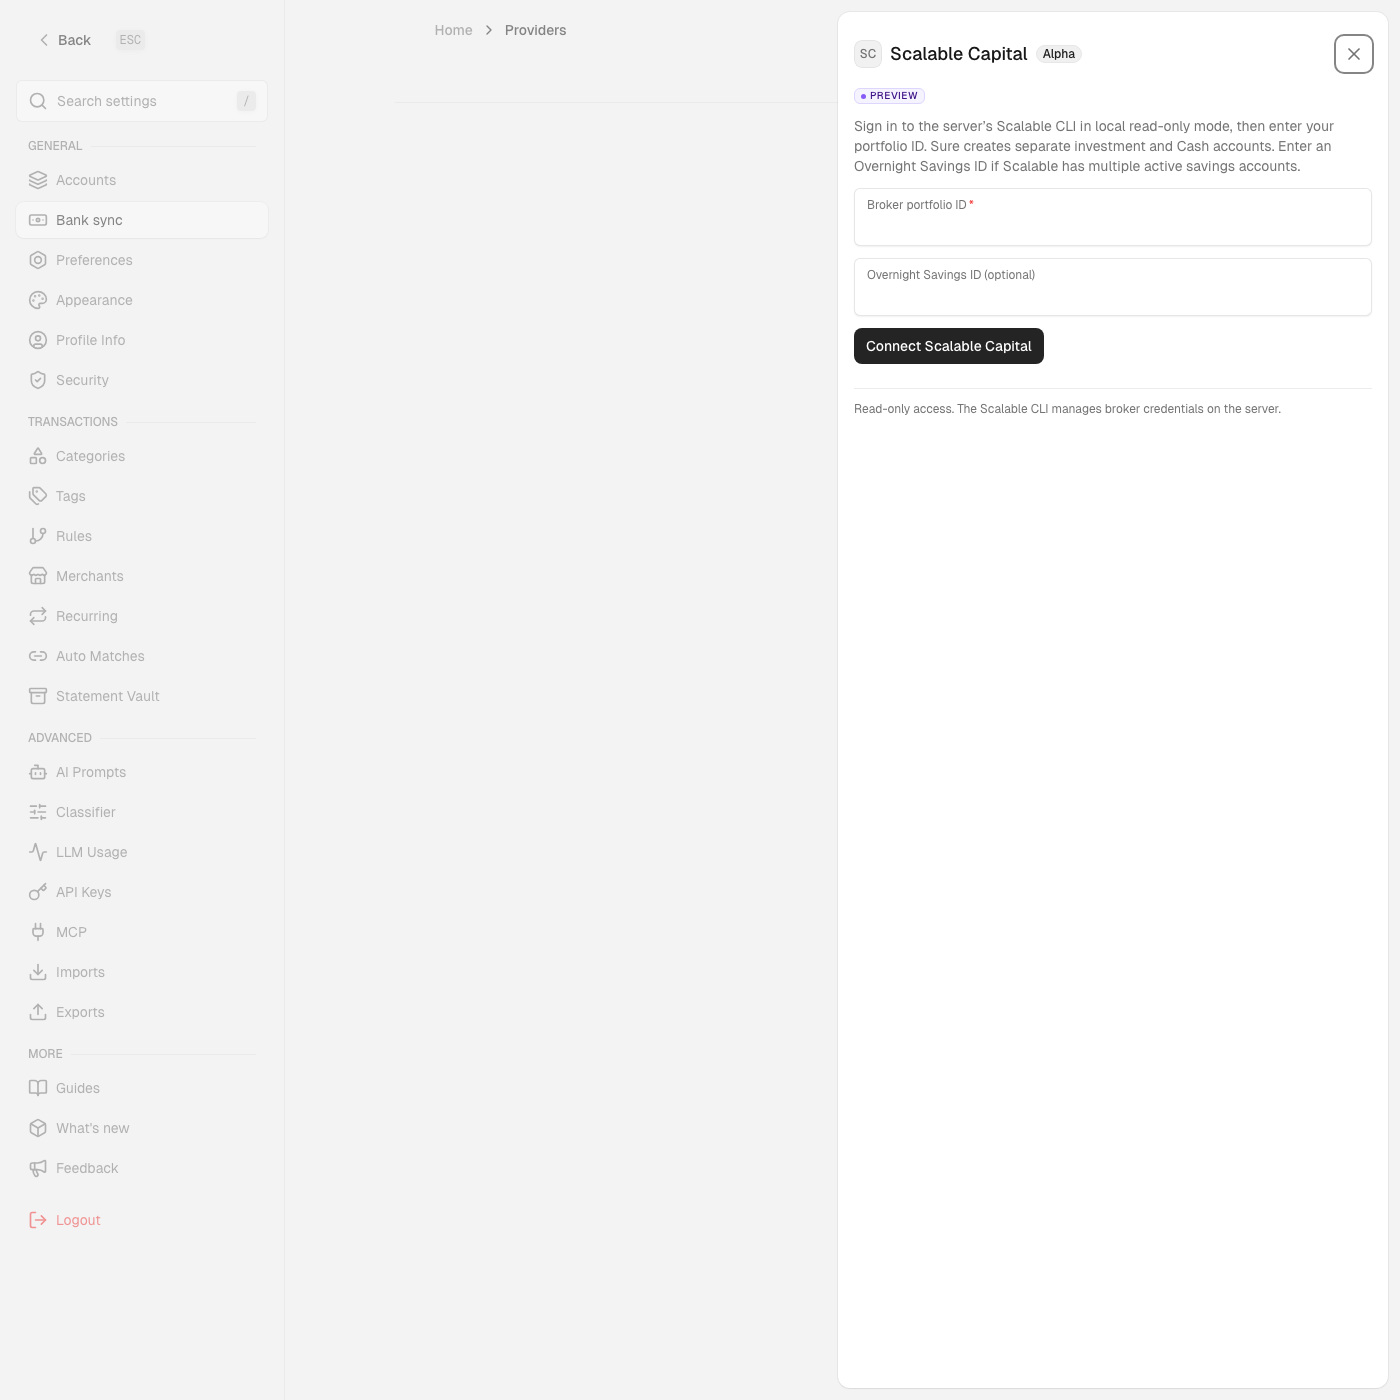
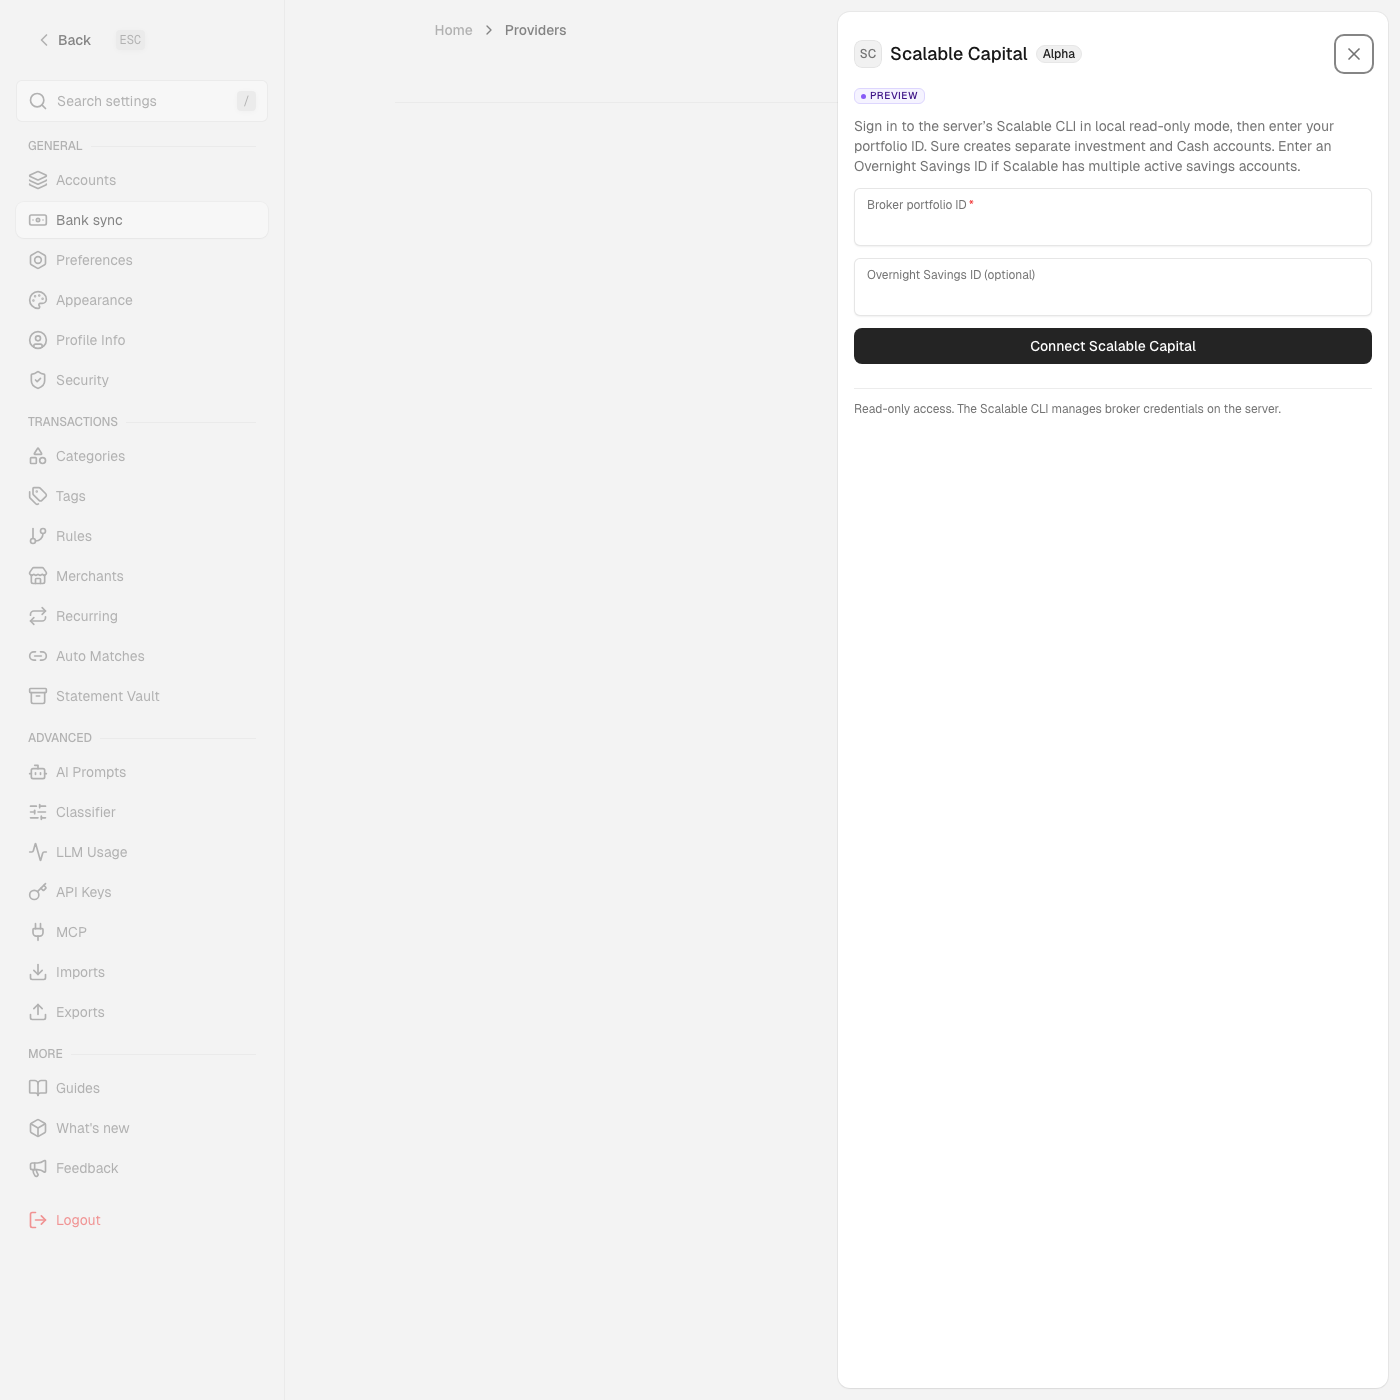
Address Scalable Capital connector review feedback

Changed region(s): [[0.6757, 0.215, 0.9829, 0.2764]]

diff --git a/test/models/scalable_capital_item/syncer_test.rb b/test/models/scalable_capital_item/syncer_test.rb
@@ -16,7 +16,7 @@ class ScalableCapitalItem::SyncerTest < ActiveSupport::TestCase
                            country_code: "DE", exchange_operating_mic: "XETR")
     unrelated = Security.new(ticker: "WRONG", search_isin: "US0378331005", search_currency: "EUR",
                              country_code: "DE", exchange_operating_mic: "XETR")
-    Security.expects(:search_provider).with(isin, country_code: "DE").once.returns([ unrelated, correct ])
+    Security.expects(:search_provider).with(isin, country_code: "DE", technical_failure: kind_of(Proc)).once.returns([ unrelated, correct ])
 
     stub_snapshot
     run_sync
@@ -81,6 +81,117 @@ class ScalableCapitalItem::SyncerTest < ActiveSupport::TestCase
     assert_not_nil outgoing.entryable.transfer
     assert_nil cash.entries.find_by(external_id: "pending")
     assert_nil cash.entries.find_by(external_id: "cancelled")
+  end
+
+  test "applies default household sharing to every new Scalable account" do
+    admin = users(:family_admin)
+    member = users(:family_member)
+    @family.update!(default_account_sharing: "shared")
+    @item.update!(owner: admin)
+    stub_snapshot
+    run_sync
+
+    assert_equal 3, @item.accounts.accessible_by(member).count
+    @item.accounts.each do |account|
+      assert_equal admin.id, account.owner_id
+      assert_equal "read_write", account.account_shares.find_by!(user: member).permission
+    end
+  end
+
+  test "preserves private household sharing on new Scalable accounts" do
+    @family.update!(default_account_sharing: "private")
+    @item.update!(owner: users(:family_admin))
+    stub_snapshot
+    run_sync
+
+    assert_equal 3, @item.accounts.count
+    assert_empty @item.accounts.accessible_by(users(:family_member))
+  end
+
+  test "first sync saves dated holdings and anchor and protects a later anchor" do
+    date = Date.current.yesterday
+    stub_snapshot(valuation_at: 1.day.ago)
+    run_sync
+
+    broker = @item.scalable_capital_accounts.brokerage.sole.account
+    assert_predicate broker, :has_current_anchor?
+    assert_equal date, broker.current_anchor_date
+    assert_equal date, broker.holdings.where.not(account_provider_id: nil).sole.date
+
+    stub_snapshot(valuation_at: 2.days.ago, securities_value: "0", positions: [])
+    run_sync
+
+    assert_equal date, broker.reload.current_anchor_date
+    assert_equal 1000.to_d, broker.balance
+    assert_equal 2.5.to_d, broker.holdings.where.not(account_provider_id: nil).sole.qty
+  end
+
+  test "temporary security lookup failure retries without duplicating holdings or trades" do
+    isin = position.fetch("isin")
+    stub_snapshot
+    with_failed_security_lookup(isin) { run_sync }
+
+    placeholder = Security.find(@item.reload.security_ids.fetch(isin))
+    assert_predicate placeholder, :offline?
+    assert_equal "resolution_pending", placeholder.offline_reason
+
+    # Exercise an exchange security already referenced elsewhere.
+    listing = Security.create!(ticker: "EUNL", name: "Example ETF", exchange_operating_mic: "XETR")
+    listing.search_isin = isin
+    listing.search_currency = "EUR"
+    Security.expects(:search_provider)
+      .with(isin, country_code: "DE", technical_failure: kind_of(Proc)).once.returns([ listing ])
+    travel 1.day
+    stub_snapshot
+    @client.expects(:trade).never
+    run_sync
+
+    broker = @item.scalable_capital_accounts.brokerage.sole.account
+    assert_equal listing.id, @item.reload.security_ids.fetch(isin)
+    assert_equal [ 2.5.to_d, 2.5.to_d ], broker.holdings.where.not(account_provider_id: nil).order(:date).pluck(:qty)
+    assert_equal [ listing.id ], broker.holdings.distinct.pluck(:security_id)
+    assert_equal [ listing.id, listing.id ], broker.trades.pluck(:security_id)
+    assert_not Security.exists?(placeholder.id)
+  end
+
+  test "retries a trade-only ISIN after its history window has passed" do
+    isin = position.fetch("isin")
+    stub_snapshot(positions: [], securities_value: "0")
+    with_failed_security_lookup(isin) { run_sync }
+
+    placeholder = Security.find(@item.reload.security_ids.fetch(isin))
+    listing = Security.new(ticker: "EUNL", name: "Example ETF", search_isin: isin, exchange_operating_mic: "XETR")
+    Security.expects(:search_provider)
+      .with(isin, country_code: "DE", technical_failure: kind_of(Proc)).once.returns([ listing ])
+    travel 1.day
+    stub_snapshot(positions: [], securities_value: "0")
+    @client.expects(:trade).never
+    run_sync
+
+    assert_equal placeholder.id, @item.reload.security_ids.fetch(isin)
+    assert_equal "EUNL", placeholder.reload.ticker
+    refute_predicate placeholder, :offline?
+    assert_nil placeholder.offline_reason
+  end
+
+  test "caches an ISIN after a successful lookup confirms no listing" do
+    isin = position.fetch("isin")
+    stub_snapshot
+    with_failed_security_lookup(isin) { run_sync }
+
+    placeholder = Security.find(@item.reload.security_ids.fetch(isin))
+    Security.expects(:search_provider)
+      .with(isin, country_code: "DE", technical_failure: kind_of(Proc)).once.returns([])
+    travel 1.day
+    stub_snapshot
+    run_sync
+    assert_nil placeholder.reload.offline_reason
+
+    Security.expects(:search_provider).never
+    travel 1.day
+    stub_snapshot
+    run_sync
+    assert_equal placeholder.id, @item.reload.security_ids.fetch(isin)
   end
 
   test "zero Tagesgeld waits for a positive balance and existing account can return to zero" do
@@ -151,6 +262,12 @@ class ScalableCapitalItem::SyncerTest < ActiveSupport::TestCase
 
     account = @item.scalable_capital_accounts.brokerage.first.account
     assert_equal [ 2.5.to_d, 0.to_d ], account.holdings.where.not(account_provider_id: nil).order(:date).pluck(:qty)
+
+    travel 1.day
+    stub_snapshot(positions: [], securities_value: "0")
+    assert_no_difference -> { account.holdings.where.not(account_provider_id: nil).count } do
+      run_sync
+    end
   end
 
   private
@@ -160,9 +277,22 @@ class ScalableCapitalItem::SyncerTest < ActiveSupport::TestCase
       ScalableCapitalItem::Syncer.new(@item, client: @client).perform_sync(sync)
     end
 
-    def stub_snapshot(positions: [ position ], securities_value: "1000", savings_history_id: "savings", savings_balance: "50")
+    def with_failed_security_lookup(isin)
+      Security.stubs(:search_provider).with do |symbol, options|
+        next false unless symbol == isin
+
+        options.fetch(:technical_failure).call(nil)
+        true
+      end.returns([])
+      yield
+    ensure
+      Security.unstub(:search_provider)
+    end
+
+    def stub_snapshot(positions: [ position ], securities_value: "1000", savings_history_id: "savings",
+                      savings_balance: "50", valuation_at: Time.current)
       @client.stubs(:overview).with("portfolio").returns(broker({
-        "timestamps" => { "valuation_timestamp_utc" => Time.current.iso8601 },
+        "timestamps" => { "valuation_timestamp_utc" => valuation_at.iso8601 },
         "valuation" => { "total" => "1255.25", "securities" => securities_value, "crypto" => "0" }
       }))
       @client.stubs(:cash).with("portfolio").returns(broker({ "cash_balance" => "255.25" }))

diff --git a/app/models/scalable_capital_item/securities.rb b/app/models/scalable_capital_item/securities.rb
@@ -1,45 +1,77 @@
 class ScalableCapitalItem::Securities
+  PENDING_RESOLUTION = "resolution_pending"
+
   def initialize(item, snapshots)
     @mapping = item.security_ids.dup
     @securities = Security.where(id: @mapping.values).index_by(&:id)
-    @listings = {}
-    snapshots.each do |snapshot|
-      [ *snapshot.fetch(:positions), *snapshot.fetch(:entries) ].each do |entry|
-        isin = entry[:isin]
-        next if isin.nil? || @securities.key?(@mapping[isin]) || @listings.key?(isin)
+    @pending = @mapping.keys.select { |isin| pending_resolution?(@securities[@mapping[isin]]) }
+    @failed_lookups = Set.new
 
-        @listings[isin] = best_listing(isin)
-      end
+    imported_isins = snapshots.flat_map do |snapshot|
+      [ *snapshot.fetch(:positions), *snapshot.fetch(:entries) ].filter_map { |entry| entry[:isin] }
     end
+    isins = @pending | imported_isins.reject { |isin| @securities.key?(@mapping[isin]) }
+    @listings = isins.index_with { |isin| best_listing(isin) }
   end
 
   attr_reader :mapping
 
+  def resolve_pending!
+    # A previously imported trade may no longer appear in the incremental feed.
+    @pending.each { |isin| resolve(isin, nil) }
+  end
+
   def resolve(isin, name)
     cached = @securities[@mapping[isin]]
-    return cached if cached
+    return cached if cached && !pending_resolution?(cached)
 
     listing = @listings[isin]
-    security = if listing
-      Security.find_or_create_by!(ticker: listing.ticker.upcase, exchange_operating_mic: listing.exchange_operating_mic) do |record|
-        record.name = listing.name.presence || name
-        record.country_code = listing.country_code
-        record.price_provider = listing.price_provider
-      end
-    else
-      Security.find_or_create_by!(ticker: isin, exchange_operating_mic: nil) do |record|
-        record.offline = true
-        record.name = name
-      end
-    end
+    security = listing ? resolve_listing(listing, name, cached) : resolve_offline(isin, name, cached)
     @mapping[isin] = security.id
     @securities[security.id] = security
   end
 
   private
 
+    def resolve_listing(listing, name, placeholder)
+      identity = { ticker: listing.ticker.upcase, exchange_operating_mic: listing.exchange_operating_mic }
+      attributes = { name: listing.name.presence || name || placeholder&.name,
+                     country_code: listing.country_code, price_provider: listing.price_provider }
+      security = Security.find_or_initialize_by(identity)
+      if placeholder && security.new_record?
+        # Preserve the existing holding and trade references when no listing row exists.
+        placeholder.update!(identity.merge(attributes, offline: false, offline_reason: nil))
+        return placeholder
+      end
+
+      security.update!(attributes) if security.new_record?
+      if placeholder
+        Security::Merger.new(from: placeholder, into: security).merge!(
+          condition: ->(source) { pending_resolution?(source) }
+        )
+      end
+      security
+    end
+
+    def resolve_offline(isin, name, cached)
+      security = cached || Security.find_or_create_by!(ticker: isin, exchange_operating_mic: nil) do |record|
+        record.offline = true
+        record.name = name
+      end
+      if @failed_lookups.include?(isin)
+        security.update!(offline_reason: PENDING_RESOLUTION) if security.offline? && security.offline_reason.blank?
+      elsif pending_resolution?(security)
+        security.update!(offline_reason: nil)
+      end
+      security
+    end
+
+    def pending_resolution?(security)
+      security&.offline? && security.offline_reason == PENDING_RESOLUTION
+    end
+
     def best_listing(isin)
-      Security.search_provider(isin, country_code: "DE")
+      Security.search_provider(isin, country_code: "DE", technical_failure: ->(_provider) { @failed_lookups.add(isin) })
         .select { |listing| listing.search_isin&.casecmp?(isin) && listing.ticker.present? && listing.exchange_operating_mic.present? }
         .min_by do |listing|
           [ listing.search_currency == "EUR" ? 0 : 1, listing.country_code == "DE" ? 0 : 1,

diff --git a/app/models/scalable_capital_item/syncer.rb b/app/models/scalable_capital_item/syncer.rb
@@ -88,6 +88,8 @@ class ScalableCapitalItem::Syncer
         result[snapshot.fetch(:kind)] = Account::ProviderImportAdapter.new(account)
       end
 
+      securities.resolve_pending! if adapters[:brokerage]
+
       snapshots.each do |snapshot|
         adapter = adapters[snapshot.fetch(:kind)]
         next unless adapter
@@ -121,7 +123,7 @@ class ScalableCapitalItem::Syncer
     def update_balance(adapter, snapshot, securities)
       account = adapter.account
       date = snapshot.fetch(:date)
-      return if account.current_anchor_date && account.current_anchor_date > date
+      return if account.has_current_anchor? && account.current_anchor_date > date
 
       if snapshot.fetch(:kind) == :brokerage
         provider = account.account_providers.find_by!(provider_type: "ScalableCapitalAccount")
@@ -177,8 +179,11 @@ class ScalableCapitalItem::Syncer
 
       # Write a zero snapshot for exited positions so reverse materialization
       # stops carrying the old quantity while keeping its historical snapshots.
-      previous = provider.holdings.where(date: ..date).includes(:provider_security, :security).order(date: :desc).to_a
-      previous.uniq { |holding| holding.provider_security_id || holding.security_id }.each do |holding|
+      previous = provider.holdings.where(date: ..date)
+        .select("DISTINCT ON (COALESCE(provider_security_id, security_id)) holdings.*")
+        .order(Arel.sql("COALESCE(provider_security_id, security_id), date DESC, id DESC"))
+        .includes(:provider_security, :security)
+      previous.each do |holding|
         security = holding.provider_security || holding.security
         next if holding.qty.zero? || incoming.include?(security.id)
 

diff --git a/test/controllers/scalable_capital_items_controller_test.rb b/test/controllers/scalable_capital_items_controller_test.rb
@@ -13,6 +13,7 @@ class ScalableCapitalItemsControllerTest < ActionDispatch::IntegrationTest
     assert_response :success
     assert_select "input[name='scalable_capital_item[portfolio_id]']"
     assert_includes response.body, I18n.t("scalable_capital_items.panel.trust_statement")
+    assert_select "#scalable-capital-providers-panel button[type=submit].w-full", text: I18n.t("scalable_capital_items.panel.connect")
 
     assert_difference -> { @admin.family.scalable_capital_items.count } do
       post scalable_capital_items_path, params: { scalable_capital_item: { portfolio_id: "portfolio" } }

diff --git a/app/models/scalable_capital_account.rb b/app/models/scalable_capital_account.rb
@@ -22,6 +22,7 @@ class ScalableCapitalAccount < ApplicationRecord
       accountable_attributes: { subtype: subtype }
     )
     create_account_provider!(account: account)
+    account.auto_share_with_family! if account.family.share_all_by_default?
     account
   end
 end
